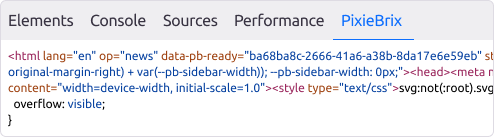
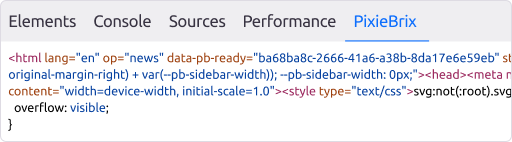
swap svg/webp with png

diff --git a/src/components/walkthroughModal/WalkthroughModalApp.tsx b/src/components/walkthroughModal/WalkthroughModalApp.tsx
@@ -25,13 +25,13 @@ import { getThisFrame } from "webext-messenger";
 import { registerWalkthroughModal } from "@/contentScript/walkthroughModalProtocol";
 import { closeWalkthroughModal } from "@/contentScript/messenger/api";
 import { type Target } from "@/types/messengerTypes";
-import inspectContextMenuImage from "@img/inspect-context-menu.svg";
+import inspectContextMenuImage from "@img/inspect-context-menu.png";
 import devtoolsShortcutWindowsImage from "@img/devtools-shortcut-windows.svg";
 import devtoolsShortcutMacImage from "@img/devtools-shortcut-mac.svg";
-import devtoolsDockingContextMenu from "@img/devtools-docking-context-menu.webp";
-import devtoolsToolbarScreenshot from "@img/devtools-toolbar-screenshot.svg";
+import devtoolsDockingContextMenu from "@img/devtools-docking-context-menu.png";
+import devtoolsToolbarScreenshot from "@img/devtools-pixiebrix-toolbar-screenshot.png";
 import devtoolsPixieBrixToolbarTab from "@img/devtools-pixiebrix-toolbar-tab.png";
-import devtoolsPixieBrixToolbarTabHidden from "@img/devtools-pixiebrix-toolbar-tab-hidden.webp";
+import devtoolsPixieBrixToolbarTabHidden from "@img/devtools-pixiebrix-toolbar-hidden.png";
 import devtoolsDockBottomIcon from "@img/devtools-dock-bottom-icon.svg";
 
 import cx from "classnames";
@@ -61,6 +61,7 @@ export const WalkthroughModalApp: React.FunctionComponent = () => {
               <img
                 src={inspectContextMenuImage}
                 alt="The right-click browser context menu with the 'Inspect' option included"
+                className="img-fluid"
               />
             </Col>
             <Col>
@@ -97,6 +98,7 @@ export const WalkthroughModalApp: React.FunctionComponent = () => {
               <img
                 src={devtoolsToolbarScreenshot}
                 alt="DevTools toolbar with three-dot menu icon included"
+                className="img-fluid"
               />
             </Col>
             <Col>
